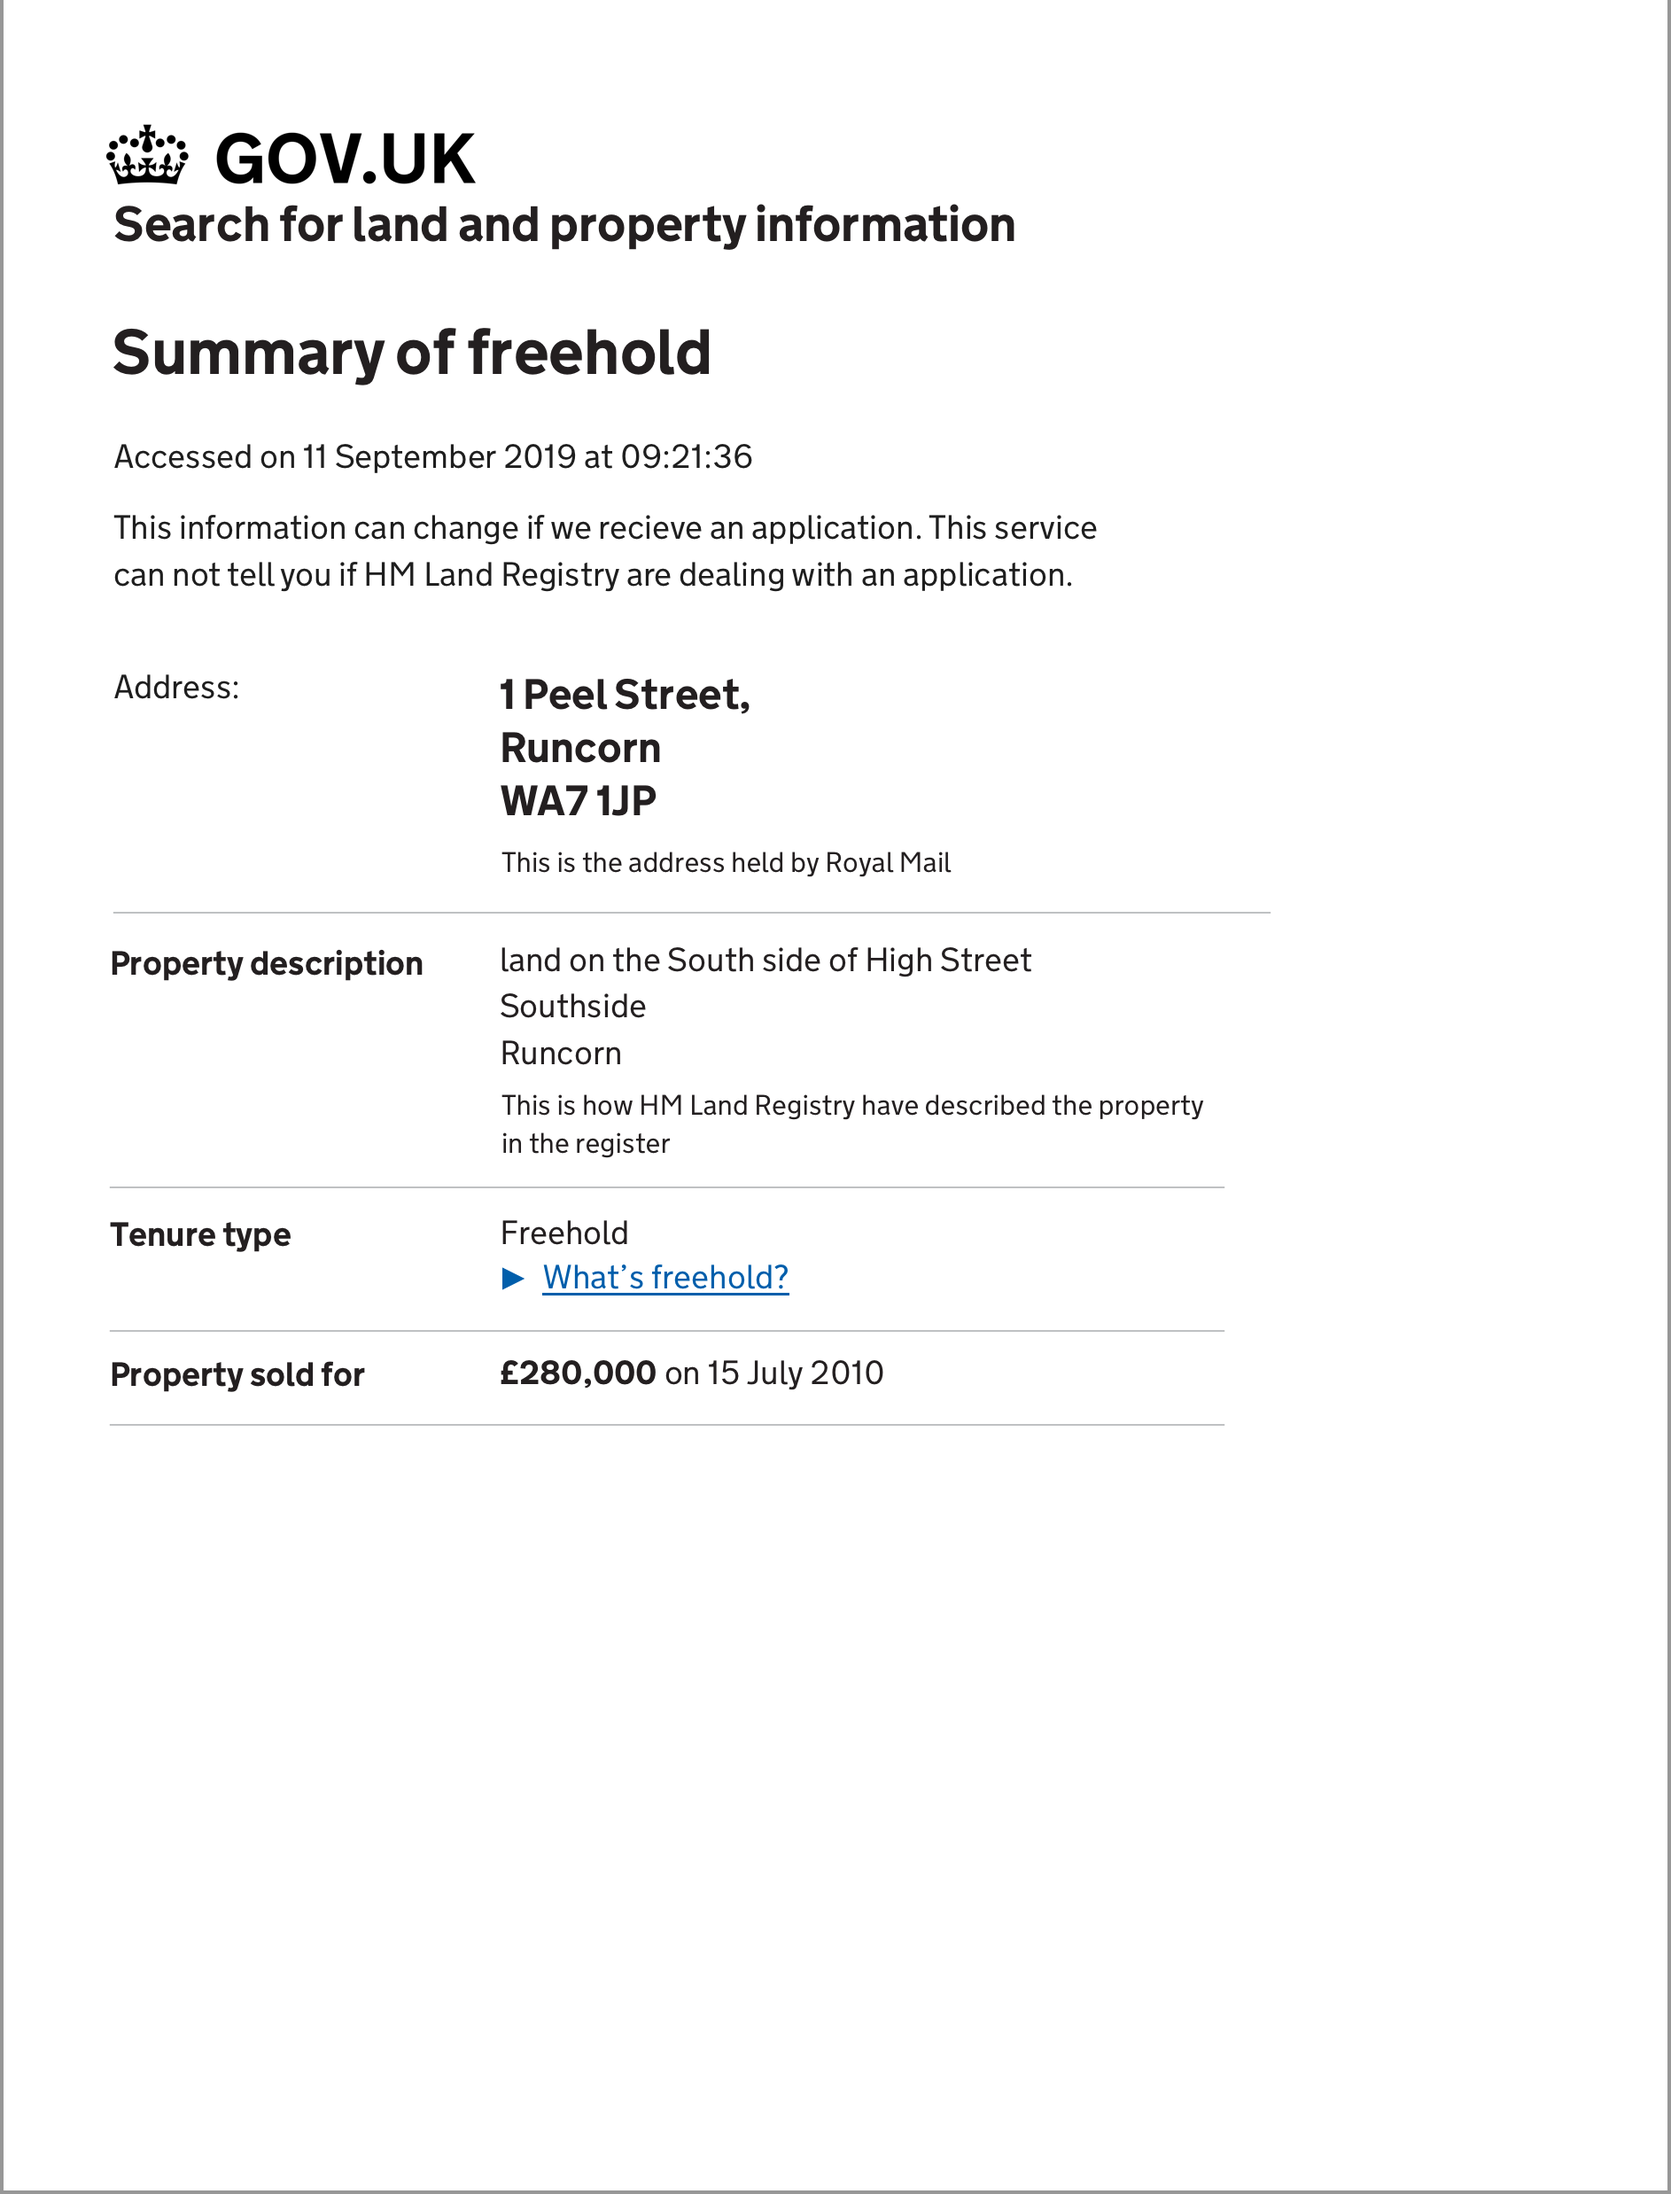
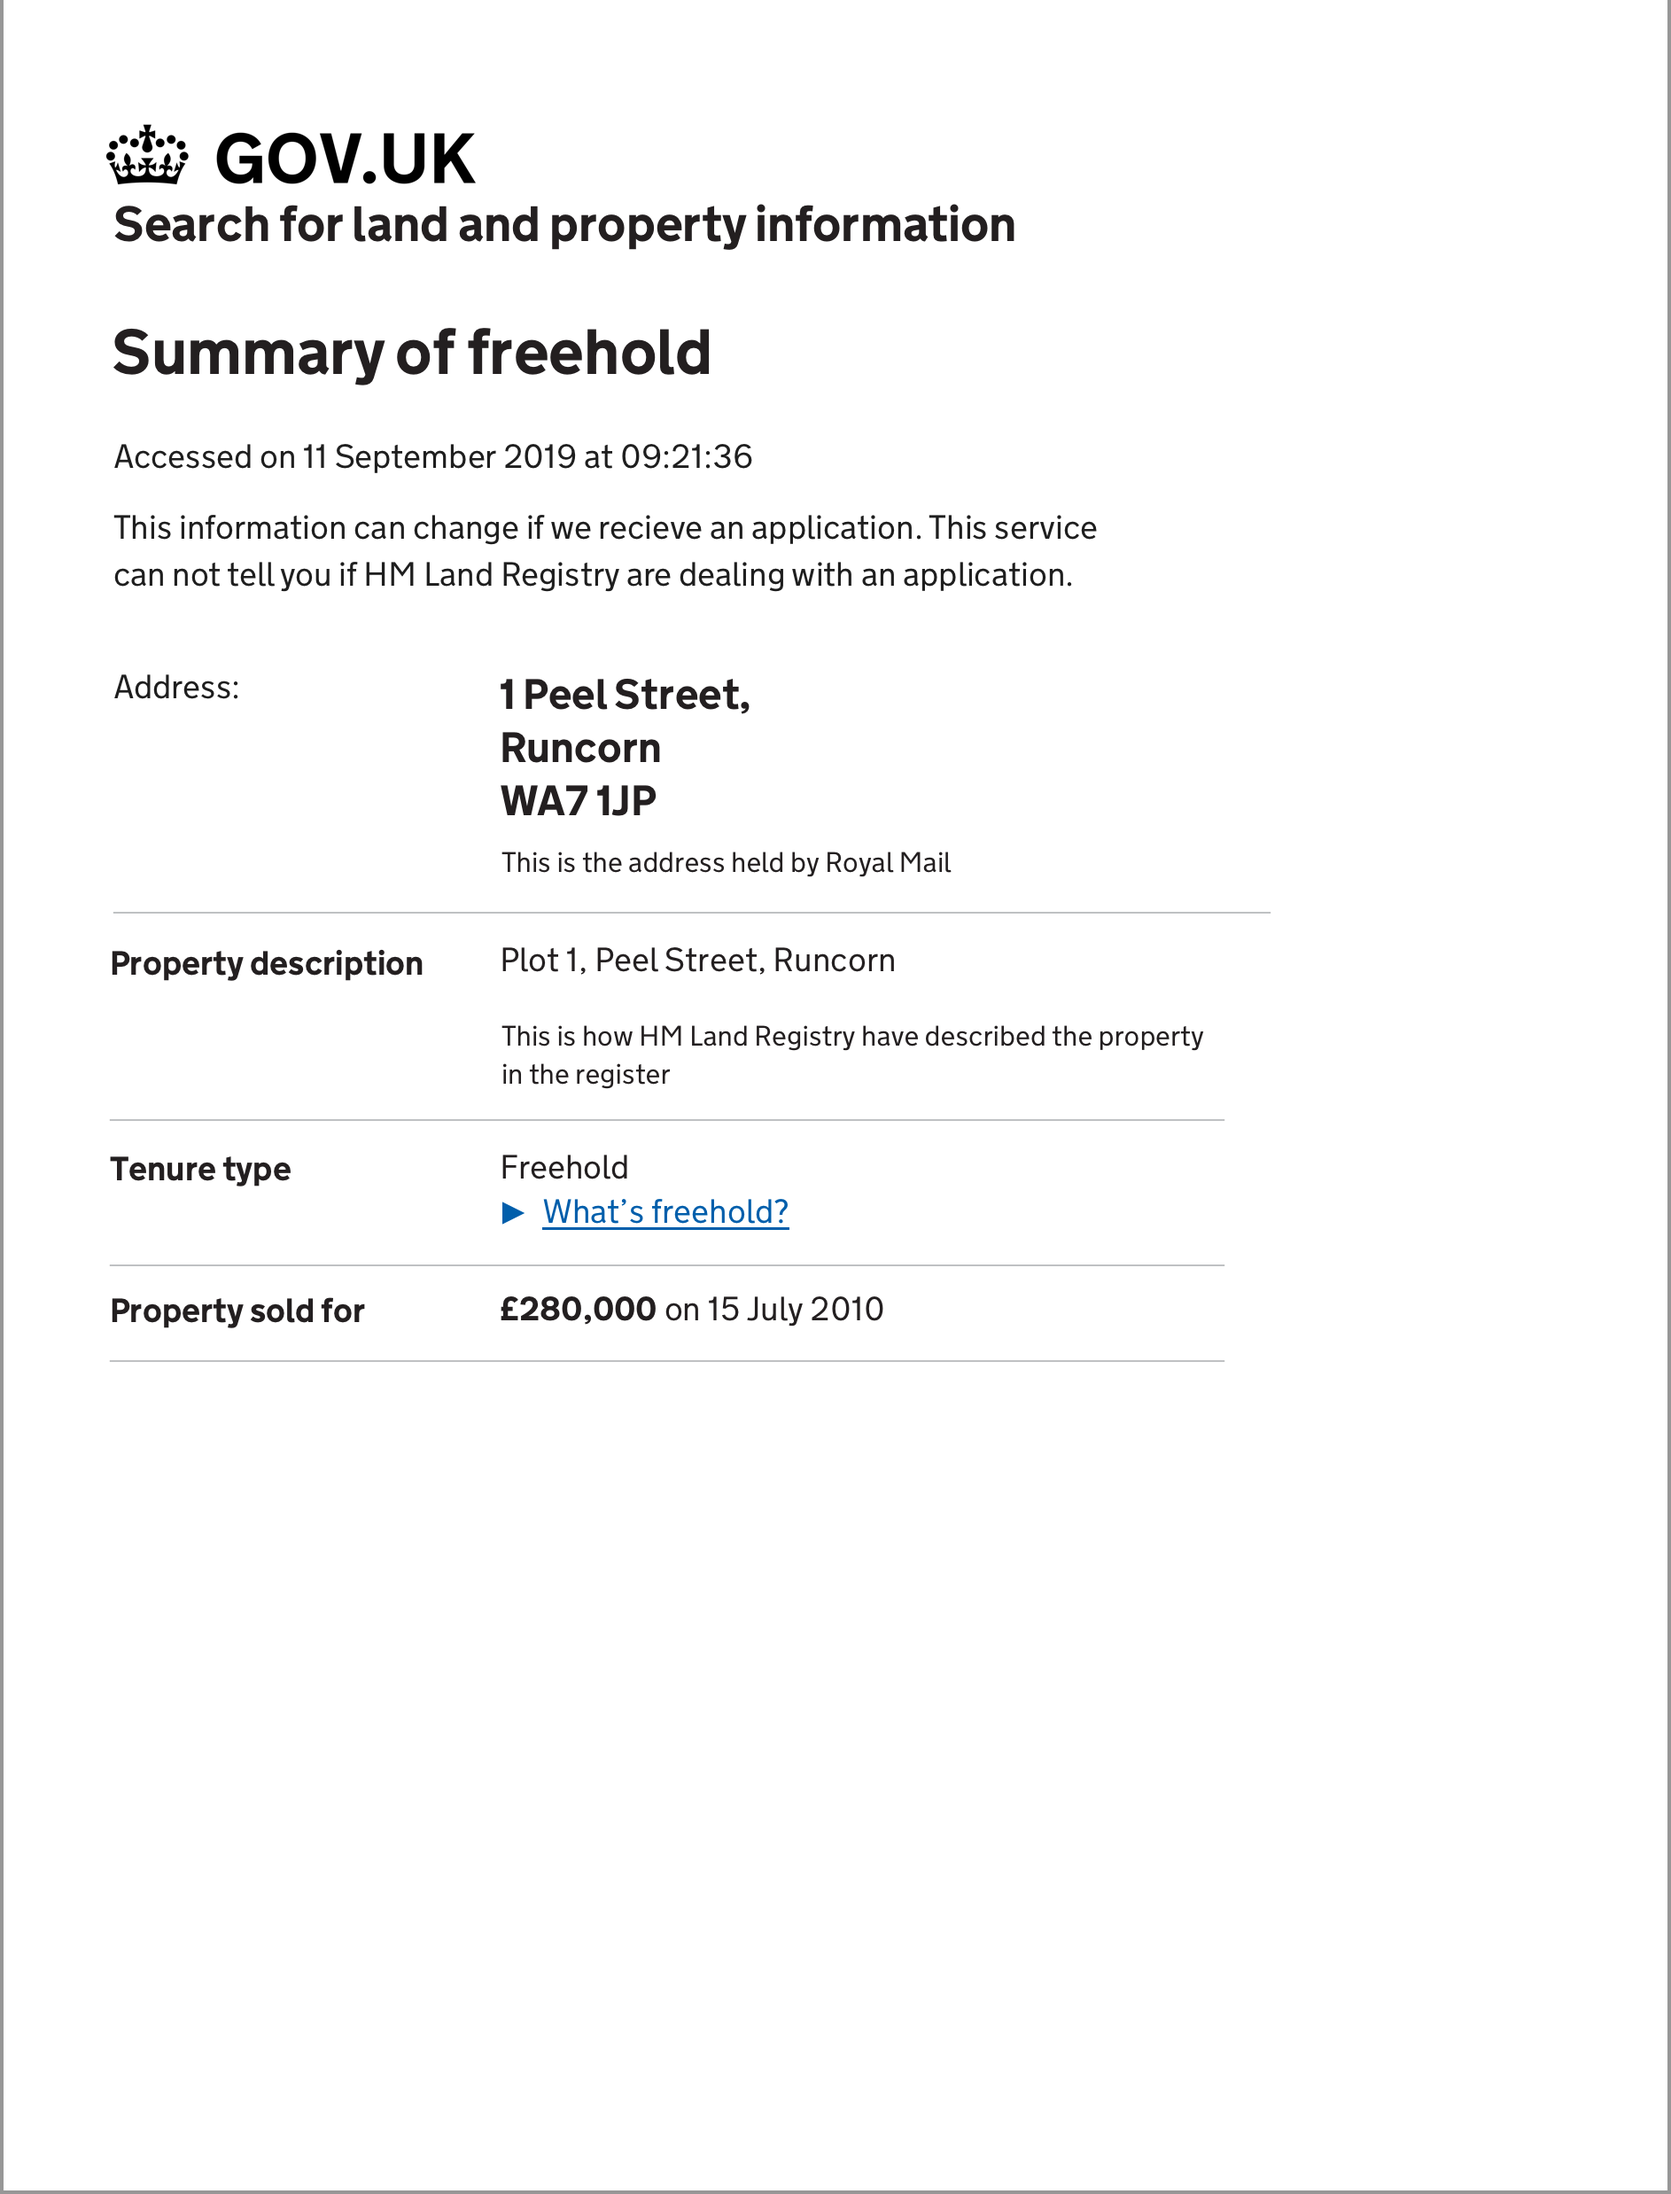
assets uploaded in Welsh

Changed region(s): [[0.2768, 0.4354, 0.7073, 0.6531], [0.0615, 0.5287, 0.2153, 0.6531]]

diff --git a/app/views/welsh/summary-of-leasehold.html b/app/views/welsh/summary-of-leasehold.html
@@ -119,8 +119,8 @@
                   </summary>
                   <div class="govuk-details__text">
                     <p>Un o ddwy ffordd o berchen ar dir yw lesddaliad (rhydd-ddaliad yw’r ffordd arall). Rhoddir lesddaliad gan landlord i denant. </p>
-                  <p>Mae lesddaliad yn parhau am gyfnod penodol a nodir yn y brydles. Yn aml, rhaid i’r tenant dalu rhent i’r landlord ac mae hyn hefyd wedi ei nodi yn y brydles. </p>
-                  <p>Mae’r rhan fwyaf o fflatiau’n lesddaliad.  </p>
+                    <p>Mae lesddaliad yn parhau am gyfnod penodol a nodir yn y brydles. Yn aml, rhaid i’r tenant dalu rhent i’r landlord ac mae hyn hefyd wedi ei nodi yn y brydles. </p>
+                    <p>Mae’r rhan fwyaf o fflatiau’n lesddaliad.  </p>
                   </div>
                   </details>
               </dd>
@@ -157,8 +157,8 @@
              pwa.document.close();
          }
   </script>
-    <p><a href="../../public/images/summary-of-leasehold-35cs.png" onclick="PrintImage('../../public/images/summary-of-leasehold-35cs.png'); return false;"> <img src="../../public/images/print-page.png"alt="save page icon" height="15" class="icon-image" onclick="PrintImage('../../public/images/summary-of-leasehold-35cs.png'); return false;">Argraffu’r dudalen hone</a></p>
-    <p><a href="../../public/images/summary-of-leasehold-35cs.png"download><img src="../../public/images/save-page.png"alt="download page icon" height="15" class="icon-image">Lawrlwytho’r dudalen hon</a></p>
+    <p><a href="../../public/images/summary-of-leasehold-2bps-welsh.png" onclick="PrintImage('../../public/images/summary-of-leasehold-35cs-welsh.png'); return false;"> <img src="../../public/images/print-page.png"alt="save page icon" height="15" class="icon-image" onclick="PrintImage('../../public/images/summary-of-leasehold-35cs-welsh.png'); return false;"> Argraffu’r dudalen hone</a></p>
+    <p><a href="../../public/images/summary-of-leasehold-35cs-welsh.png"download> <img src="../../public/images/save-page.png"alt="download page icon" height="15" class="icon-image">Lawrlwytho’r dudalen hon</a></p>
   </div>
 </div>
 

diff --git a/app/views/welsh/summary-of-leasehold-2aps.html b/app/views/welsh/summary-of-leasehold-2aps.html
@@ -156,8 +156,8 @@
              pwa.document.close();
          }
   </script>
-    <p><a href="../../public/images/summary-of-leasehold-2ps1.png" onclick="PrintImage('../../public/images/summary-of-leasehold-2ps1.png'); return false;"> <img src="../../public/images/print-page.png"alt="save page icon" height="15" class="icon-image" onclick="PrintImage('../../public/images/summary-of-leasehold-2ps1.png'); return false;">Argraffu’r dudalen hone</a></p>
-    <p><a href="../../public/images/summary-of-leasehold-2ps1.png"download><img src="../../public/images/save-page.png"alt="download page icon" height="15" class="icon-image">Lawrlwytho’r dudalen hon</a></p>
+    <p><a href="../../public/images/summary-of-leasehold-2aps-welsh.png" onclick="PrintImage('../../public/images/summary-of-leasehold-2aps-welsh.png'); return false;"> <img src="../../public/images/print-page.png"alt="save page icon" height="15" class="icon-image" onclick="PrintImage('../../public/images/summary-of-leasehold-2aps-welsh.png'); return false;">Argraffu’r dudalen hone</a></p>
+    <p><a href="../../public/images/summary-of-leasehold-2aps.welsh.png"download><img src="../../public/images/save-page.png"alt="download page icon" height="15" class="icon-image">Lawrlwytho’r dudalen hon</a></p>
   </div>
 </div>
 

diff --git a/app/views/welsh/summary-of-leasehold-2bps.html b/app/views/welsh/summary-of-leasehold-2bps.html
@@ -157,8 +157,8 @@
              pwa.document.close();
          }
   </script>
-  <p><a href="../../public/images/summary-of-leasehold-2ps1.png" onclick="PrintImage('../../public/images/summary-of-leasehold-2ps1.png'); return false;"> <img src="../../public/images/print-page.png"alt="save page icon" height="15" class="icon-image" onclick="PrintImage('../../public/images/summary-of-leasehold-2ps1.png'); return false;">Argraffu’r dudalen hone</a></p>
-  <p><a href="../../public/images/summary-of-leasehold-2ps1.png"download><img src="../../public/images/save-page.png"alt="download page icon" height="15" class="icon-image">Lawrlwytho’r dudalen hon</a></p>
+  <p><a href="../../public/images/summary-of-leasehold-2bps-welsh.png" onclick="PrintImage('../../public/images/summary-of-leasehold-2bps-welsh.png'); return false;"> <img src="../../public/images/print-page.png"alt="save page icon" height="15" class="icon-image" onclick="PrintImage('../../public/images/summary-of-leasehold-2bps-welsh.png'); return false;"> Argraffu’r dudalen hone</a></p>
+  <p><a href="../../public/images/summary-of-leasehold-2bps-welsh.png"download><img src="../../public/images/save-page.png"alt="download page icon" height="15" class="icon-image">Lawrlwytho’r dudalen hon</a></p>
   </div>
 </div>
 

diff --git a/app/views/welsh/summary-of-freehold.html b/app/views/welsh/summary-of-freehold.html
@@ -160,8 +160,8 @@
                pwa.document.close();
            }
     </script>
-      <p><a href="../../public/images/summary-of-freehold-2ps.png" onclick="PrintImage('../../public/images/summary-of-freehold-2ps.png'); return false;"><img src="../../public/images/print-page.png"alt="print page icon" height="15" class="icon-image" onclick="PrintImage('../../public/images/summary-of-freehold-2ps.png'); return false;"> Print this page</a></p>
-      <p><a href="../../public/images/summary-of-freehold-2ps.png"download><img src="../../public/images/save-page.png"alt="download page icon" height="15" class="icon-image">Download this page</a></p>
+      <p><a href="../../public/images/summary-of-freehold-2ps-welsh.png" onclick="PrintImage('../../public/images/summary-of-freehold-2ps-welsh.png'); return false;"><img src="../../public/images/print-page.png"alt="print page icon" height="15" class="icon-image" onclick="PrintImage('../../public/images/summary-of-freehold-2ps-welsh.png'); return false;"> Print this page</a></p>
+      <p><a href="../../public/images/summary-of-freehold-2ps-welsh.png"download><img src="../../public/images/save-page.png"alt="download page icon" height="15" class="icon-image">Download this page</a></p>
     </div>
   </div>
 

diff --git a/app/views/welsh/summary-of-freehold-1ps.html b/app/views/welsh/summary-of-freehold-1ps.html
@@ -160,8 +160,8 @@
                pwa.document.close();
            }
     </script>
-      <p><a href="../../public/images/summary-of-freehold-1ps.png" onclick="PrintImage('../../public/images/summary-of-freehold-1ps.png'); return false;"> <img src="../../public/images/print-page.png"alt="" height="15" class="icon-image" onclick="PrintImage('../../public/images/summary-of-freehold-1ps.png'); return false;">Argraffu’r dudalen hone</a></p>
-      <p><a href="../../public/images/summary-of-freehold-1ps.png"download><img src="../../public/images/save-page.png"alt="" height="15" class="icon-image">Lawrlwytho’r dudalen hon</a></p>
+      <p><a href="../../public/images/summary-of-freehold-1ps-welsh.png" onclick="PrintImage('../../public/images/summary-of-freehold-1ps-welsh.png'); return false;"> <img src="../../public/images/print-page.png"alt="" height="15" class="icon-image" onclick="PrintImage('../../public/images/summary-of-freehold-1ps-welsh.png'); return false;">Argraffu’r dudalen hone</a></p>
+      <p><a href="../../public/images/summary-of-freehold-1ps-welsh.png"download><img src="../../public/images/save-page.png"alt="" height="15" class="icon-image">Lawrlwytho’r dudalen hon</a></p>
     </div>
 
     </div>

diff --git a/app/assets/javascripts/application.js b/app/assets/javascripts/application.js
@@ -103,7 +103,7 @@ $(document).ready(function () {
     $('.app-map').attr('src', '/public//images/peel-street-extent.png');
     $('.app-map_large').attr('src', '/public//images/peel-street-extent_large.png');
     $('#app-link-variable').attr('href', '09-paid-property-information-leasehold');
-    $('#app-property-description').html('Plot 4, Peel Street, Runcorn');
+    $('#app-property-description').html('Plot 1, Peel Street, Runcorn');
     $('#app-property-description2').html('2a Peel Street, Runcorn WA7 1JP');
     $('#app-property-description3').html('2b Peel Street, Runcorn WA7 1JP');
 
